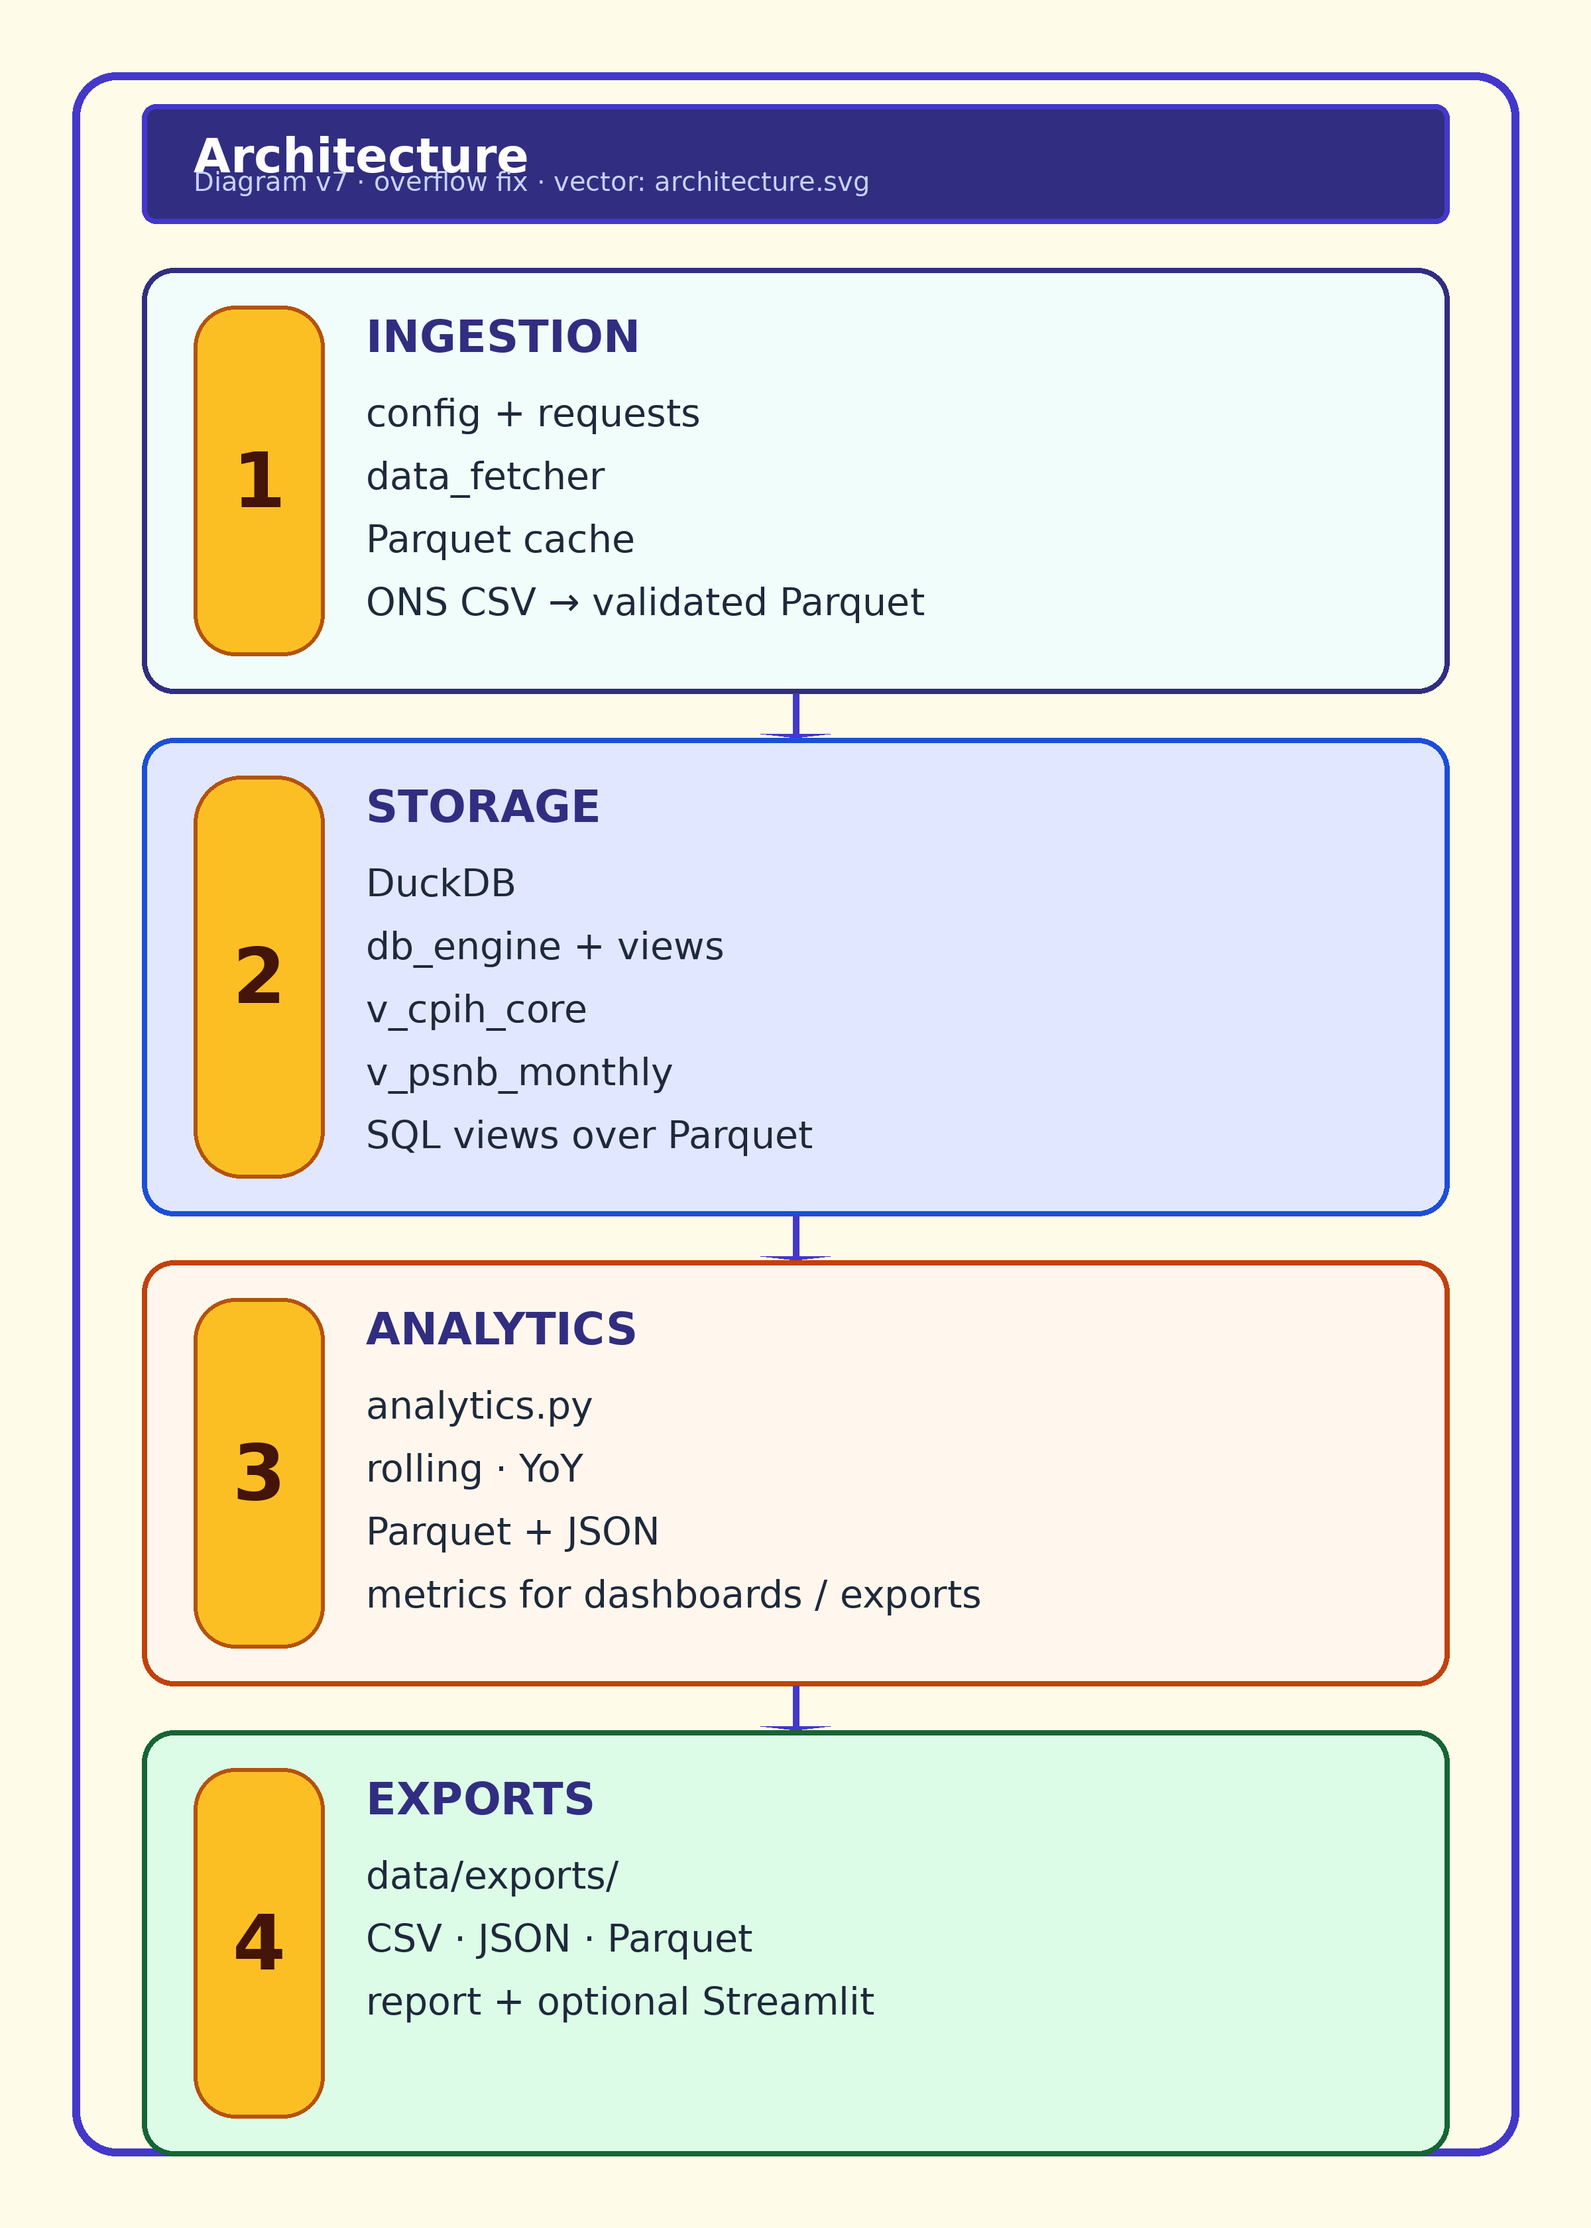
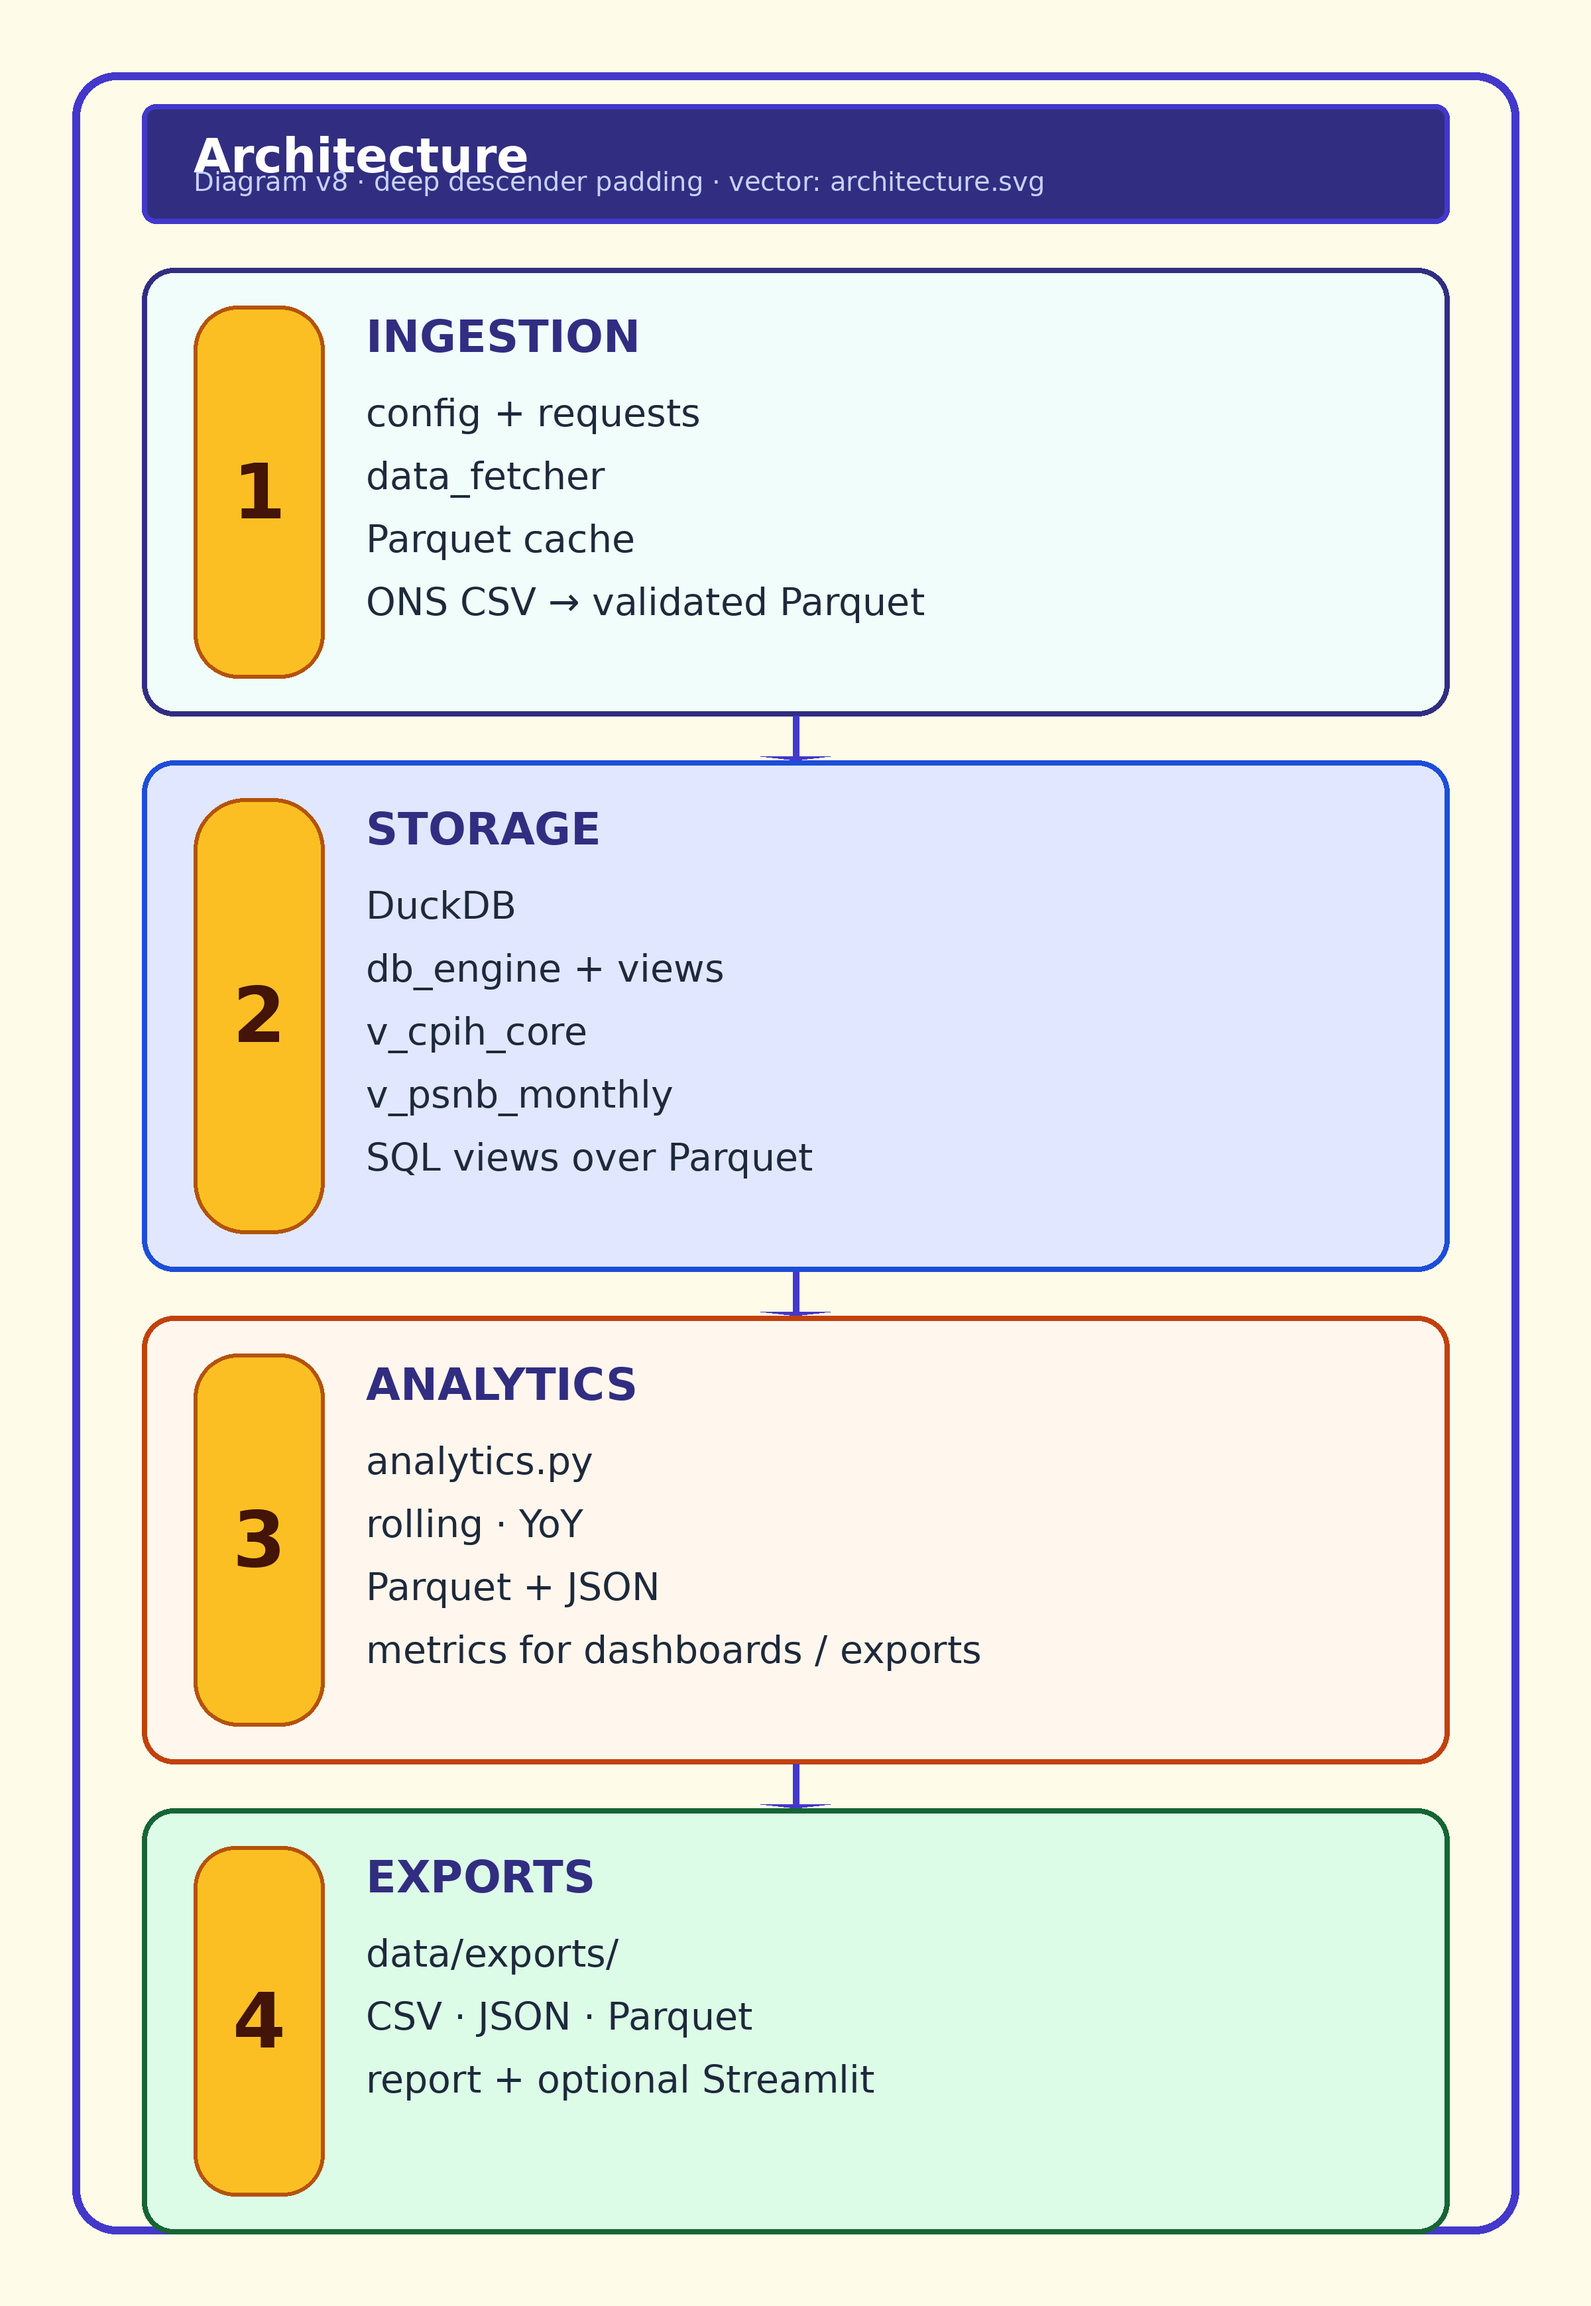
docs: canonical GitHub links for README images + padding v8
- Increase bottom margin in hero/architecture layout (glyph descenders).
- README <a href> uses github.com/.../blob/main/... for reliable mobile taps.
- img src ?v=9 cache bust; SVG banner v8.

diff --git a/tools/regen_readme_images.py b/tools/regen_readme_images.py
@@ -149,7 +149,7 @@ def render_hero(width: int = 2400) -> Image.Image:
         head_block = len(head_wrapped) * int(lh_big * 1.2)
         gap_hb = int(lh_line * 0.25)
         body_block = len(body_wrapped) * int(lh_line * 1.28)
-        bottom_margin = card_inset + int(lh_line * 0.45)
+        bottom_margin = card_inset + int(lh_line * 1.15)
         need_inner = top_text + head_block + gap_hb + body_block + bottom_margin
         min_row = int(width * 0.14)
         rh = max(min_row, need_inner)
@@ -180,7 +180,7 @@ def render_hero(width: int = 2400) -> Image.Image:
     )
     d.text(
         (pad * 2, sub_y + int(title_h * 0.28)),
-        "README poster v5 · padding fix — text measured to card bottom",
+        "README poster v6 · extra bottom padding (no edge clipping)",
         fill=(199, 210, 254),
         font=f_tag,
     )
@@ -258,7 +258,7 @@ def render_architecture(width: int = 2400) -> Image.Image:
     sd = ImageDraw.Draw(scratch)
     banner_sub_lines = _wrap_lines(
         sd,
-        "Diagram v7 · overflow fix · vector: architecture.svg",
+        "Diagram v8 · deep descender padding · vector: architecture.svg",
         f_banner_sub,
         tw_banner,
     )
@@ -302,7 +302,7 @@ def render_architecture(width: int = 2400) -> Image.Image:
         title_block = len(title_lines) * int(lh_head * 1.22)
         gap_ht = int(lh_line * 0.4)
         body_block = len(body_lines) * int(lh_line * 1.42)
-        below_last = int(lh_line * 0.9)
+        below_last = int(lh_line * 1.65)
         inner_text = top_pad + title_block + gap_ht + body_block + below_last
         min_pill = int(width * 0.22) + 2 * card_inset
         block_heights.append(max(inner_text, min_pill))

diff --git a/README.md b/README.md
@@ -20,12 +20,11 @@
 </p>
 
 <p align="center">
-  <!-- Explicit ./ link keeps “open image” on the same branch/PR; bare <img> often links to default branch. -->
-  <!-- ?v= bumps GitHub’s image CDN when the PNG bytes change (otherwise it can look “stuck”). -->
-  <!-- href has no ?v= so mobile “open image” matches this file; ?v= on src only busts CDN cache. -->
-  <a href="./hero.png" title="hero.png (this branch)">
+  <!-- Relative ./ links can open the wrong blob on GitHub mobile; use canonical main file URL for tap targets. -->
+  <!-- ?v= on src only: Camo CDN cache bust (bump when PNG bytes change). -->
+  <a href="https://github.com/tgollogly/uk-macro-analytics-engine/blob/main/hero.png" title="hero.png on main">
     <img
-      src="./hero.png?v=8"
+      src="./hero.png?v=9"
       alt="UK Macro Analytics Engine banner"
       width="100%"
       decoding="async"
@@ -77,9 +76,9 @@
 </pre>
 
 <p align="center">
-  <a href="./architecture.png" title="architecture.png (this branch)">
+  <a href="https://github.com/tgollogly/uk-macro-analytics-engine/blob/main/architecture.png" title="architecture.png on main">
     <img
-      src="./architecture.png?v=8"
+      src="./architecture.png?v=9"
       alt="Architecture diagram: Ingestion, DuckDB, Analytics, Exports"
       width="100%"
       loading="lazy"
@@ -232,7 +231,7 @@ pip install pillow
 python3 tools/regen_readme_images.py
 ```
 
-Put **`?v=` on the `<img src>` only** (not on the wrapping `<a href>`) so taps open the correct file while the CDN still refreshes. Bump `?v=` when you replace PNG bytes (this README uses `?v=8`). Vector: [`architecture.svg`](./architecture.svg).
+Use a **canonical `https://github.com/…/blob/main/…png`** on the `<a href>` for reliable **mobile** taps (relative `./` links are flaky). Put **`?v=` only on `<img src>`** for CDN cache busting (this README uses `?v=9`). Forks: change the org/repo in those two `href`s or switch back to `./file.png`. Vector: [`architecture.svg`](./architecture.svg).
 
 ---
 
